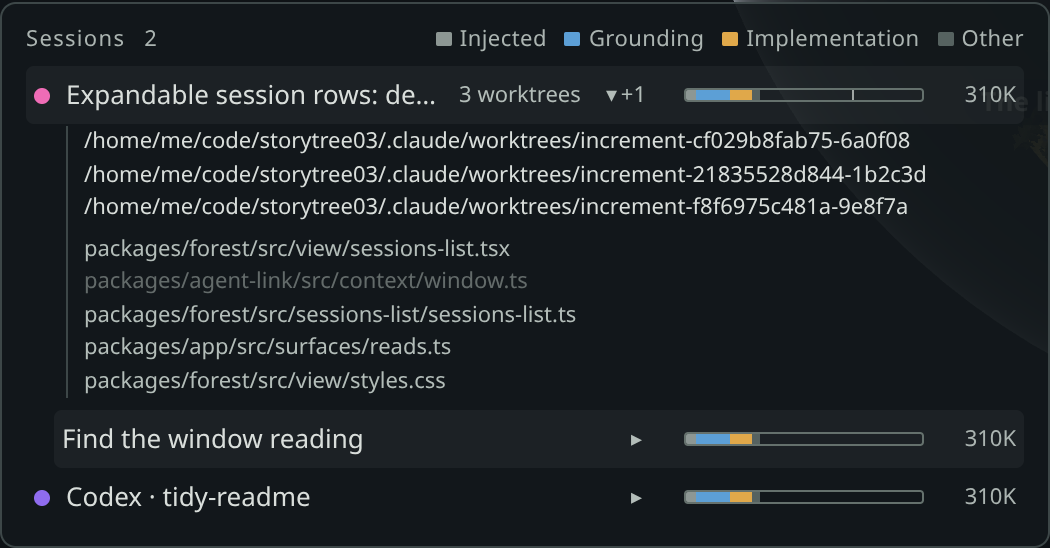
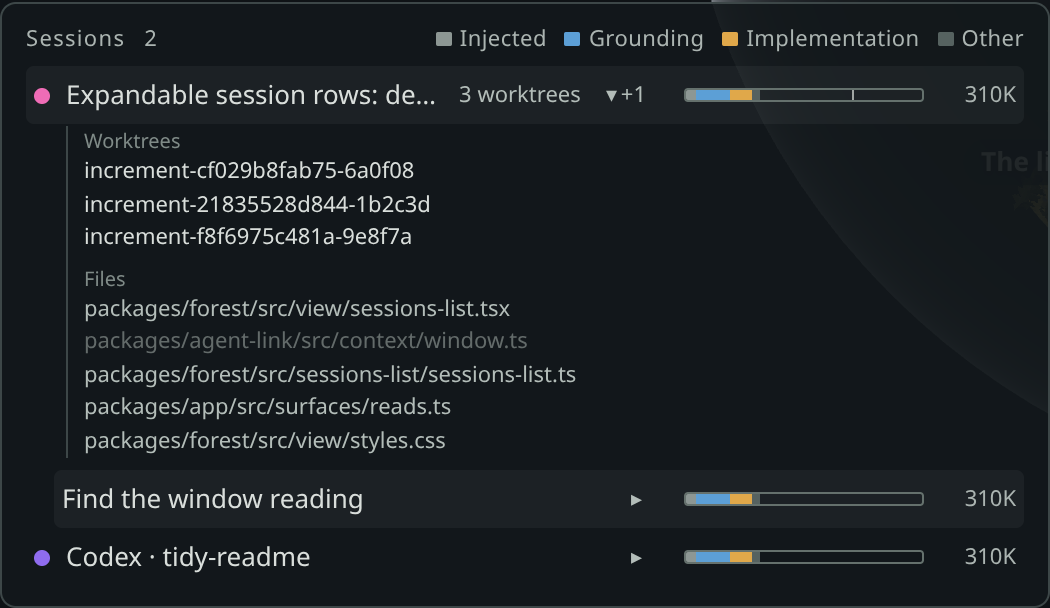
green(forest): expanded row labels its Worktrees and Files and shows worktrees by folder name, full path on hover
Contract 7.8 amended in place; the expanded-row picture recaptured.

diff --git a/packages/forest/src/view/sessions-list.tsx b/packages/forest/src/view/sessions-list.tsx
@@ -198,11 +198,17 @@ function toggle(set: ReadonlySet<string>, id: string): ReadonlySet<string> {
   return next;
 }
 
-/** An expanded row's detail (7.8): the full path of each worktree, then the files in its window. */
+/** A worktree's folder name, the trunk's too, from its full path on any platform. */
+const folderName = (path: string): string => path.replace(/[\\/]+$/, "").split(/[\\/]/).pop() || path;
+
+/** An expanded row's detail (7.8): each worktree by its folder's name (full path on hover), then the files in its window, each block labelled. */
 function SessionDetail({ row, files }: { row: SessionRow; files: SessionFiles | undefined }) {
   return <div className="session-detail">
-    {row.worktrees.length > 0 && <ul className="session-detail-worktrees" aria-label="Worktrees">
-      {row.worktrees.map(path => <li key={path}>{path}</li>)}</ul>}
+    {row.worktrees.length > 0 && <>
+      <p className="session-detail-label">Worktrees</p>
+      <ul className="session-detail-worktrees" aria-label="Worktrees">
+        {row.worktrees.map(path => <li key={path} title={path}>{folderName(path)}</li>)}</ul></>}
+    <p className="session-detail-label">Files</p>
     {files === undefined ? <p className="session-detail-note">Reading files…</p>
       : "absent" in files ? <p className="session-detail-note">No files: {files.absent}</p>
       : files.files.length === 0 ? <p className="session-detail-note">No files opened</p>

diff --git a/packages/forest/src/view/styles.css b/packages/forest/src/view/styles.css
@@ -22,7 +22,8 @@
 .session-children-toggle::before { content:"▸"; display:inline-block; width:9px; }
 .session-children-toggle[aria-expanded="true"]::before { content:"▾"; }
 .session-detail { margin:1px 0 6px 20px; padding-left:8px; border-left:1px solid #3d4748; font-size:11px; line-height:1.5; color:#b3bdb9; }
-.session-detail ul + ul { margin-top:4px; }
+.session-detail ul + .session-detail-label { margin-top:4px; }
+.sessions-list .session-detail-label { margin:0; font-size:10px; color:#7f8a87; }
 .session-detail li { overflow-wrap:anywhere; }
 .session-detail-worktrees li { color:#d9dedb; }
 .session-detail-files li[data-resident="no"] { opacity:.5; }

diff --git a/packages/forest/evidence/row-detail/README.md b/packages/forest/evidence/row-detail/README.md
@@ -4,5 +4,6 @@ The real desktop page (built by `../sessions-list/build.mjs`), with synthetic ac
 window reading; run both through `flock /tmp/storytree-heavy.lock`.
 
 - `collapsed.png`: every row has one expander; the row with a subagent shows it as "+1".
-- `expanded.png`: the first row expanded: its three worktrees' full paths, then the five files in its
+- `expanded.png`: the first row expanded: its three worktrees under a "Worktrees" label, each by its folder name (full path on hover), then, under
+  "Files", the five files in its
   window in the order first opened (the one compacted out of the window is muted), then its subagent.
